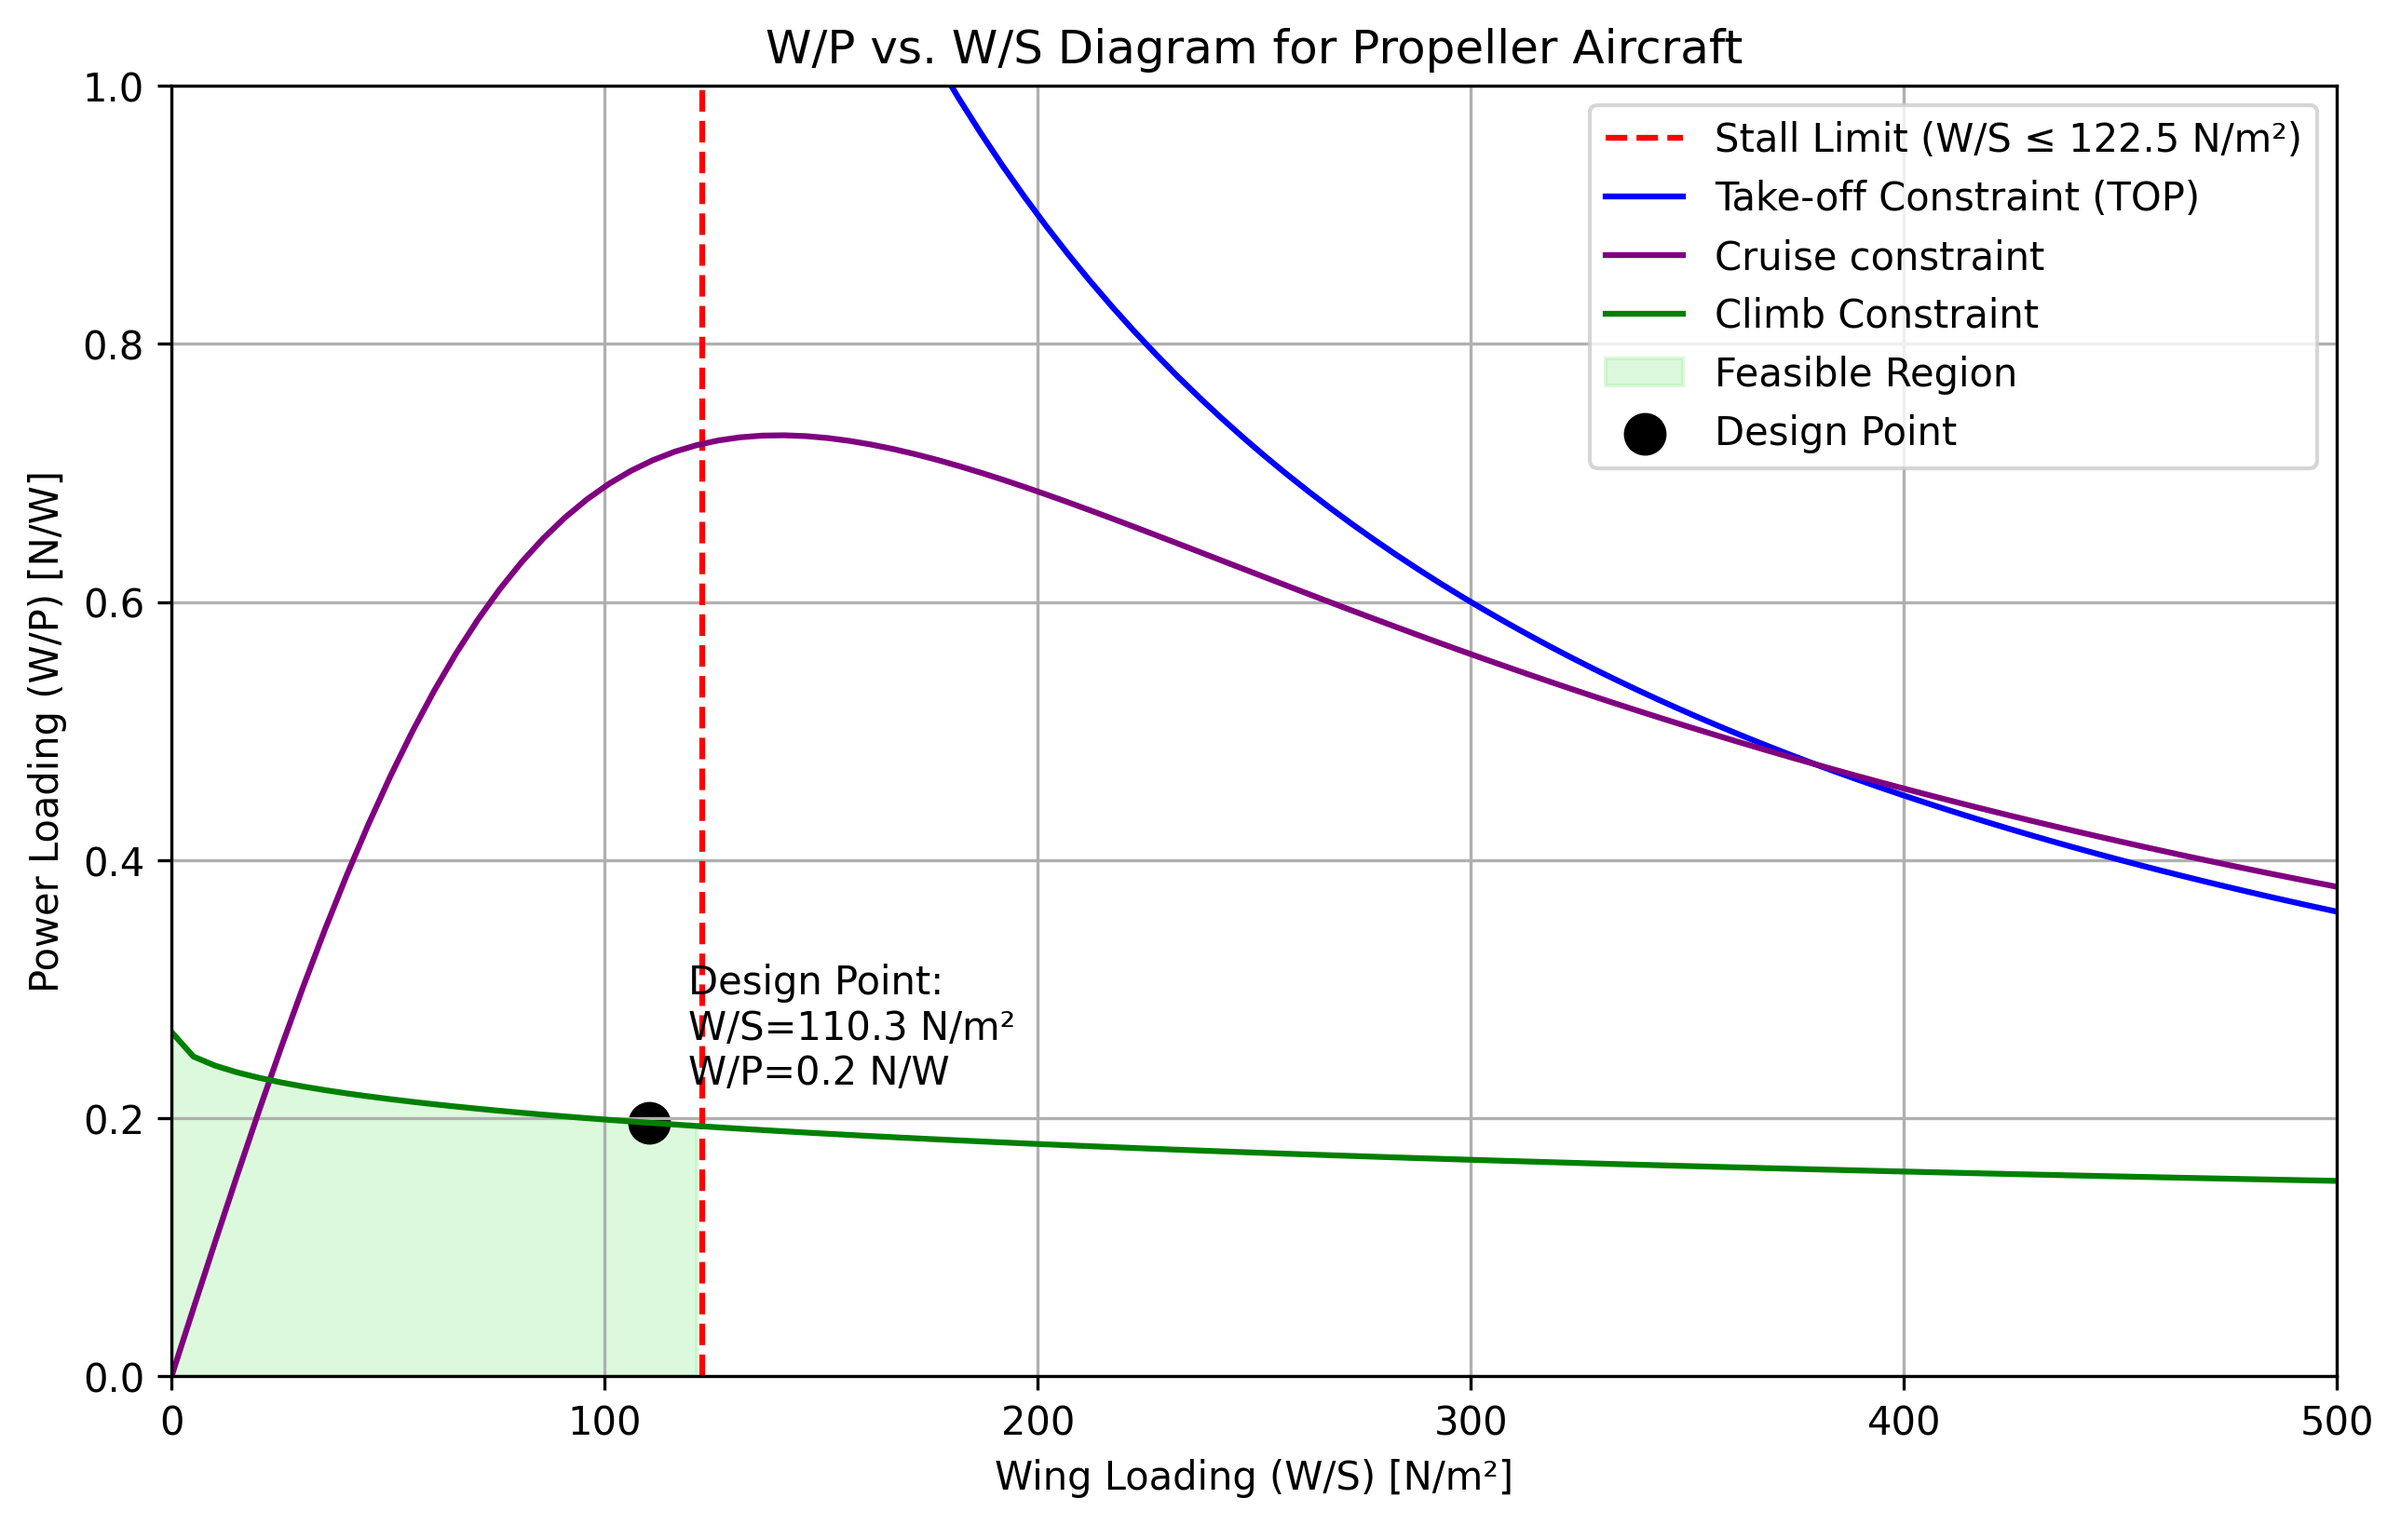
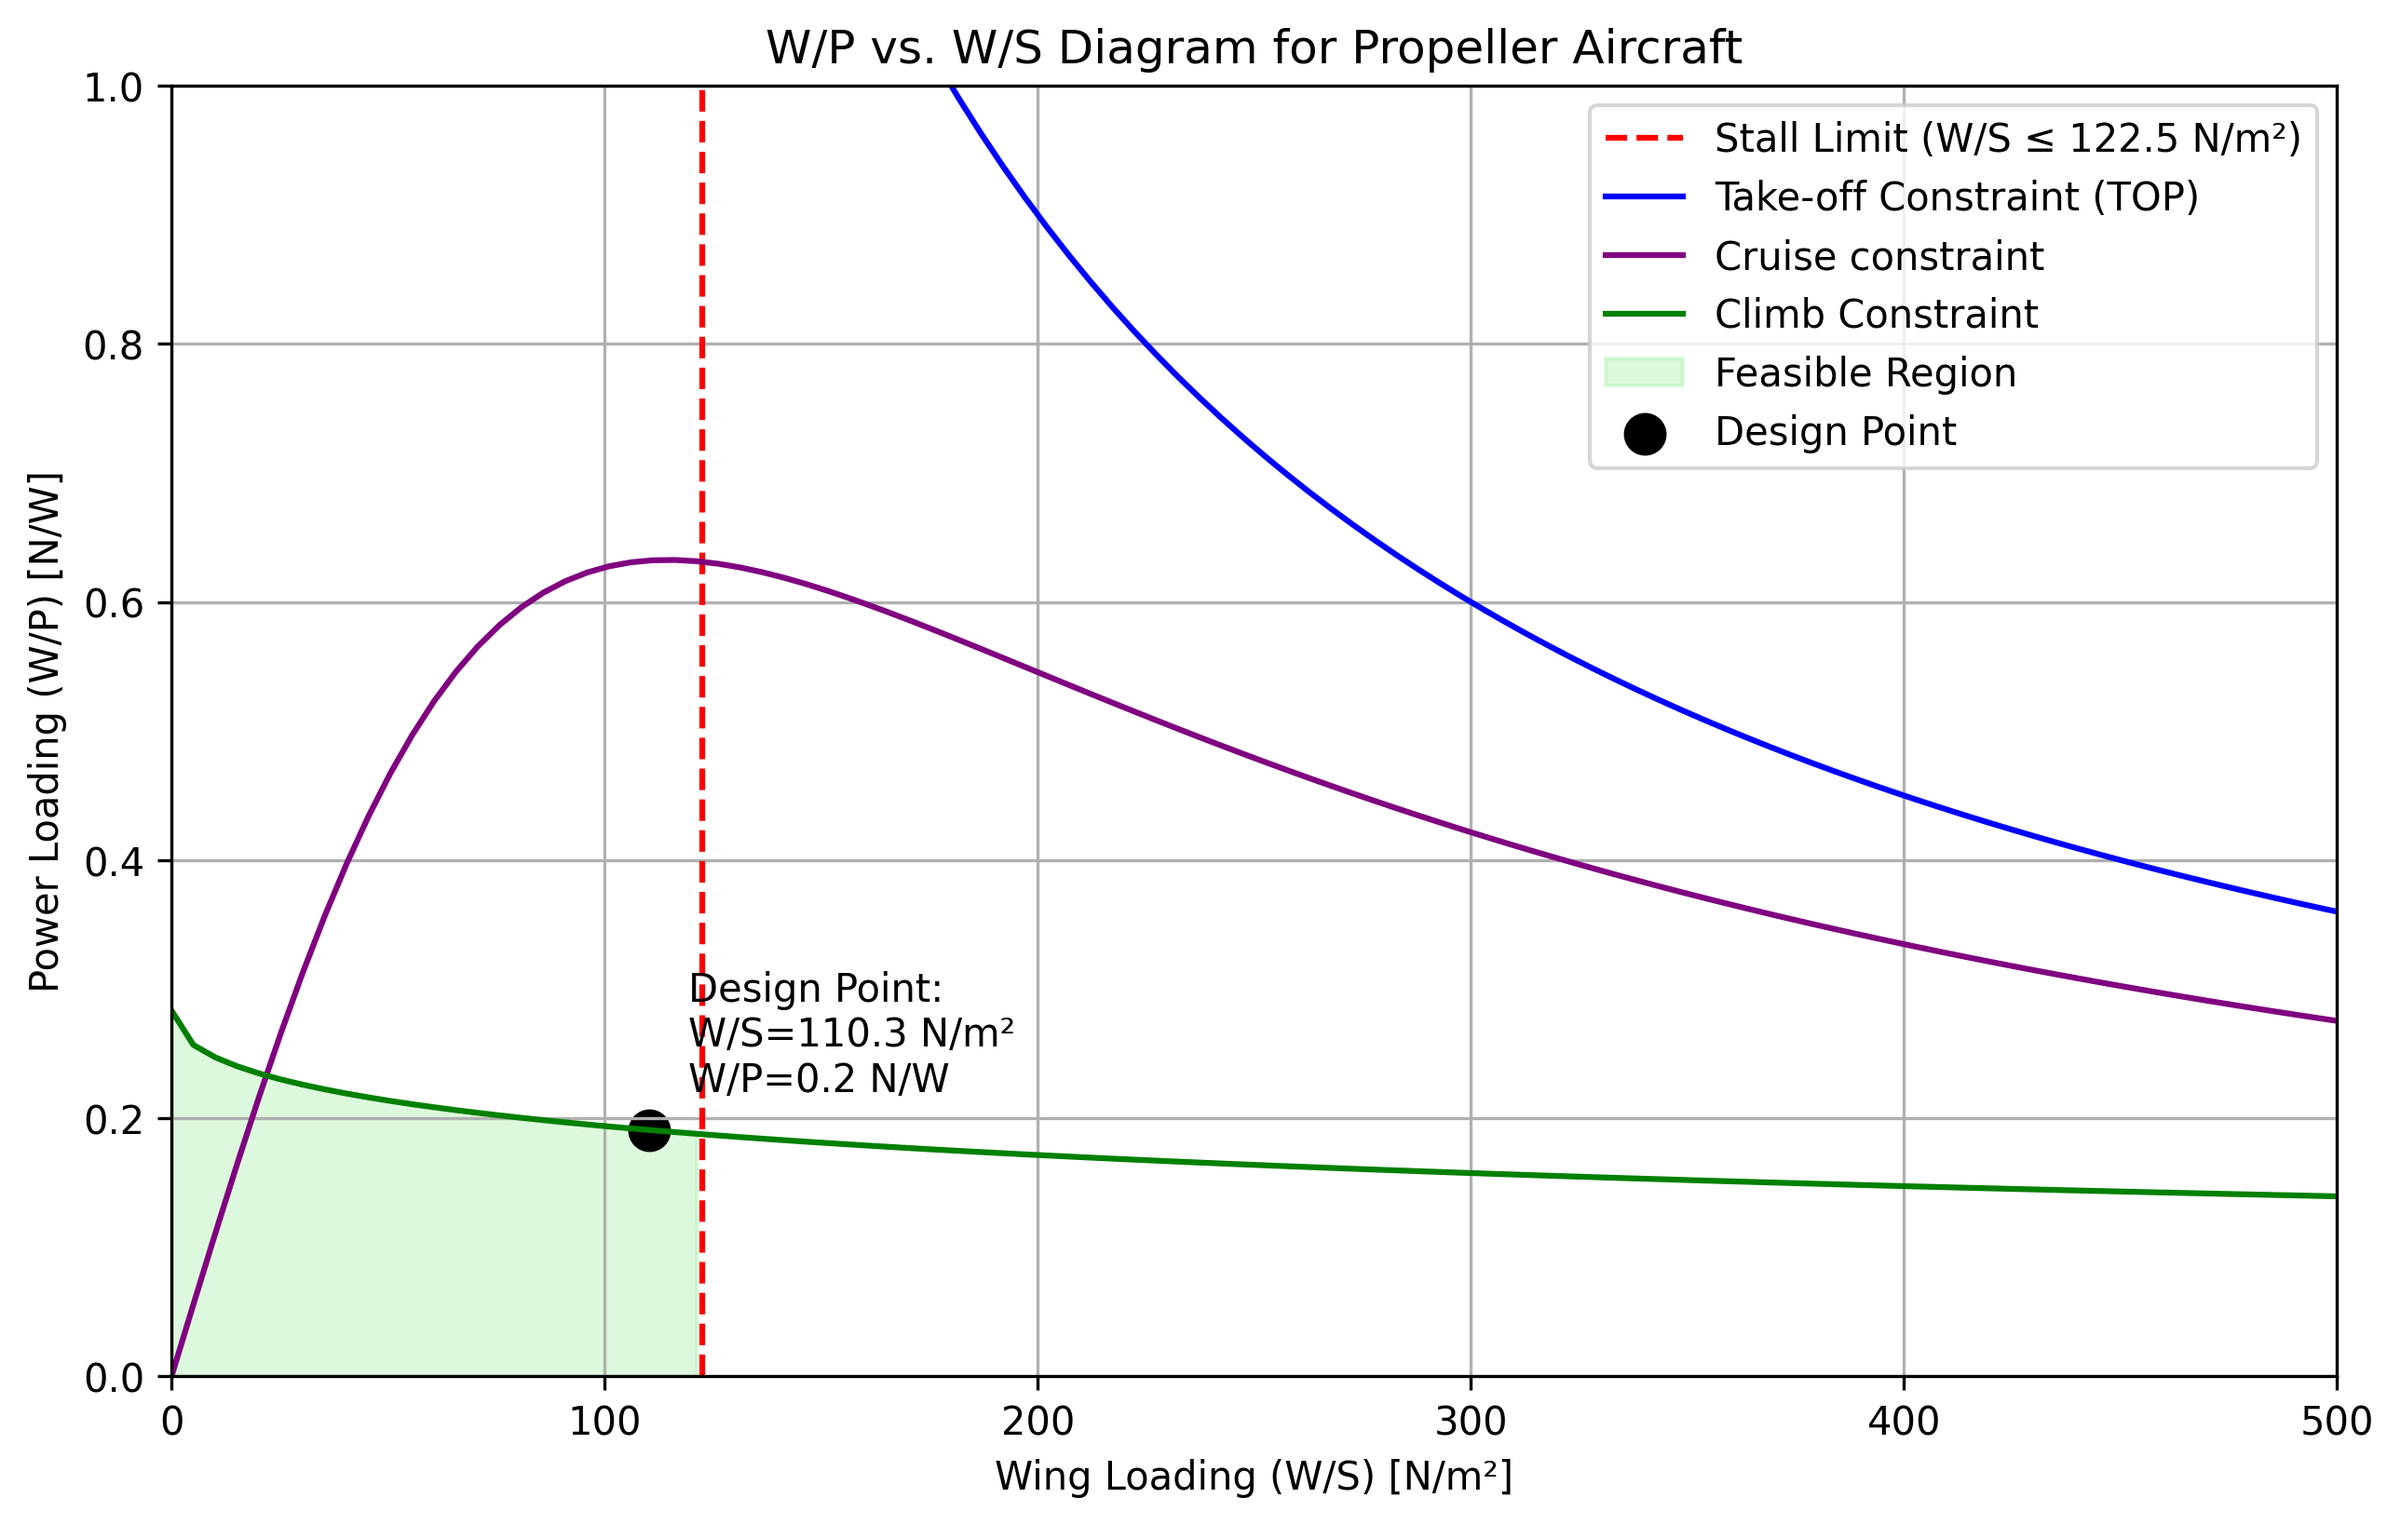
updated AR in WP/WS

diff --git a/WP_WS_diagram.py b/WP_WS_diagram.py
@@ -10,7 +10,7 @@ V_s = 10  # Stall speed (m/s)
 C_L_max_landing = 2.0  # Maximum lift coefficient (landing configuration)
 eta_p = 0.85  # Propeller efficiency
 c = 3      # Climb rate (m/s)
-A = 9        # Aspect ratio
+A = 6        # Aspect ratio
 e = 0.7      # Oswald efficiency factor
 C_D0 = 0.0335  # Zero-lift drag coefficient
 V_climb = 16  # Climb speed (m/s)
